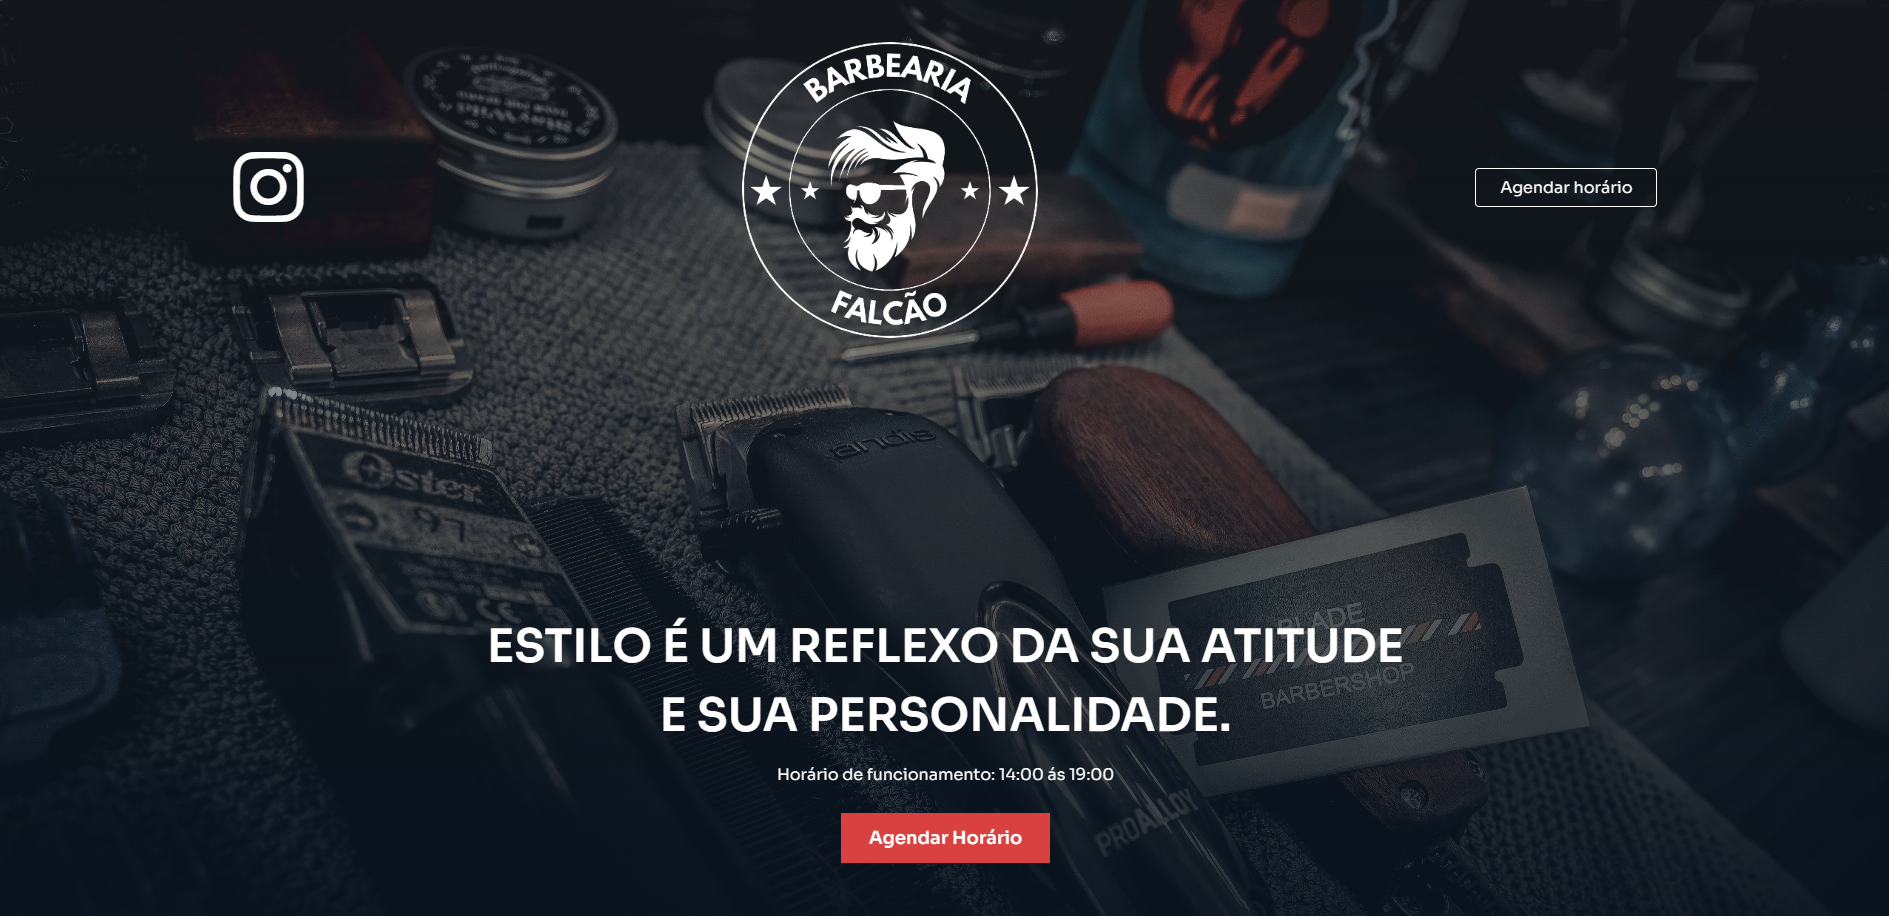
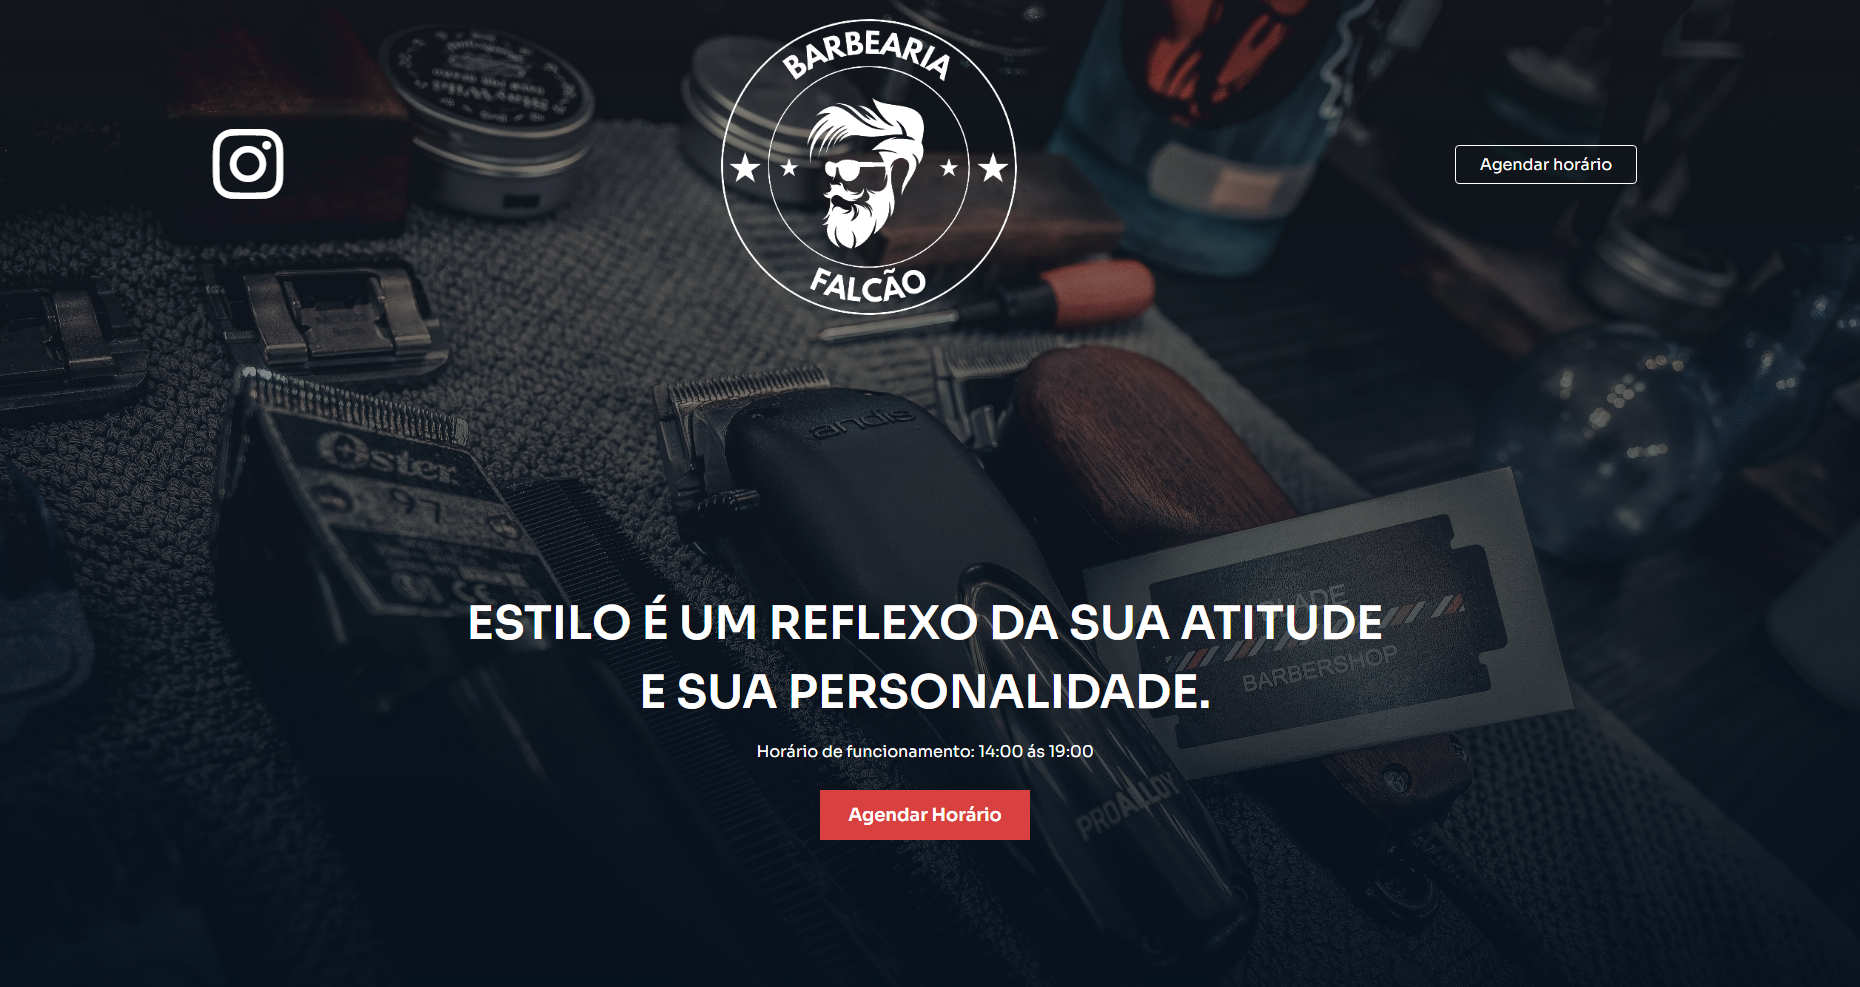
adiconando mais um projetoo na seção de proejtos

diff --git a/style.css b/style.css
@@ -431,17 +431,16 @@ body.active .percent-bar {
 .mysql-bar {
     width: 95%;
 }
-/* Estilize o container usando CSS Grid */
 .container-projeto{
+    margin-top: 200px;
     width: 80%; /* Defina a largura do container como desejado */
     margin: 0 auto; /* Centralize o container na página */
 }
 
 
-/* Estilize as divs de projeto */
 .projeto {
     display: inline-block;
-    margin: 5px;
+    margin: 10px;
     text-align: center;
     position: relative;
     overflow: hidden;
@@ -464,17 +463,18 @@ body.active .percent-bar {
     left: 0;
     width: 100%;
     height: 100%;
-    background-color: rgba(0, 0, 0, 0.7);
+    background-color: rgba(0, 0, 0, 0.185);
     color: #fff;
-    padding: 20px;
+    padding: 0; 
     opacity: 0; 
     transition: opacity 0.3s;
     display: flex;
     flex-direction: column;
     justify-content: center;
     align-items: center;
-    backdrop-filter: blur(5px); /* Aplica um desfoque na imagem de fundo */
+    backdrop-filter: blur(5px);
 }
+
 
 .icones-tecnologia h2 {
     font-size: 15px; /* Tamanho da fonte */
@@ -485,13 +485,13 @@ body.active .percent-bar {
 }
 
 
-/* Estilize os ícones dentro de .tecnologias */
+
 .tecnologias .i {
-    font-size: 1500px; 
+    font-size: 15px; 
     margin-bottom: 10px;
 }
 
-/* Estilize o link "Ver Mais" dentro de .tecnologias */
+
 .tecnologias .github-link {
     margin-top: 10px;
     text-decoration: none;
@@ -512,11 +512,11 @@ body.active .percent-bar {
 
 .projeto:hover .tecnologias {
     opacity: 1; 
-    transition: opacity 0.3s;
+    transition: opacity 0.15s;
 }
 
 .projeto:hover img {
-    filter: blur(5px); 
+    filter: blur(1px); 
 }
 
 

diff --git a/index.html b/index.html
@@ -208,16 +208,17 @@
                     <h2>Projeto de Recriação da Interface da PlayStation Store com Angular</h2>
                     <span><i class="fab fa-angular fa-lg"></i></span>
                   </div>
-                  <a class="github-link" href="https://github.com/Marcos-Gabriell/Portif-lio-" target="_blank">Ver Mais</a>
+                  <a class="github-link" href="https://github.com/Marcos-Gabriell/angular-interface-PlayStation-store" target="_blank">Ver Mais</a>
               </div>
           </div>
           <div class="projeto">
-            <img src="img/inter.png" alt="Projeto 1">
+            <img src="img/1.png" alt="Projeto 1">
             <div class="tecnologias">
-                <!-- Adicione ícones de tecnologias aqui usando classes do FontAwesome -->
                 <div class="icones-tecnologia">
-                  <span><i class="fab fa-angular fa-lg"></i></span>
-                    <!-- Adicione mais ícones aqui, se necessário -->
+                  <h2>landing  para uma Barbearia. Uma página de entrada atrativa e responsiva utilizando HTML, SCSS e JavaScript.</h2>
+                  <span><i class="fab fa-html5 fa-lg"></i></span>
+                  <span><i class="fa-brands fa-sass fa-lg"></i></span>
+                  <span><i class="fa-brands fa-js fa-lg"></i></span>
                 </div>
                 <a class="github-link" href="https://github.com/Marcos-Gabriell/Portif-lio-" target="_blank">Ver Mais</a>
             </div>
